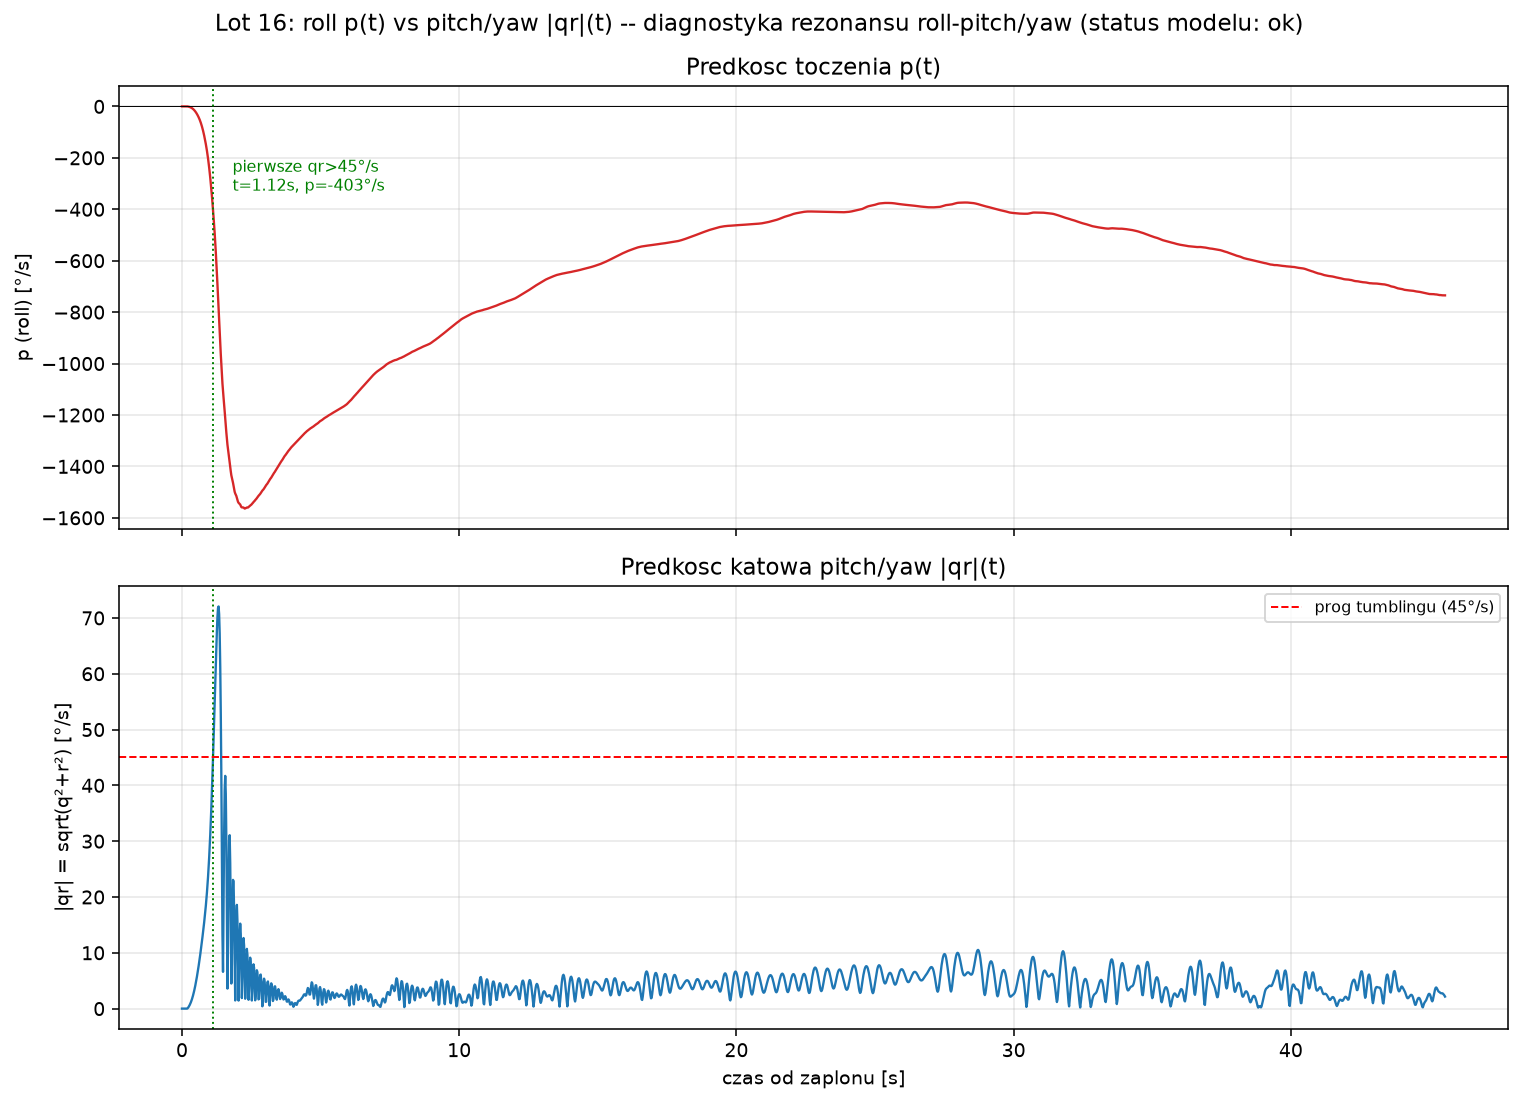
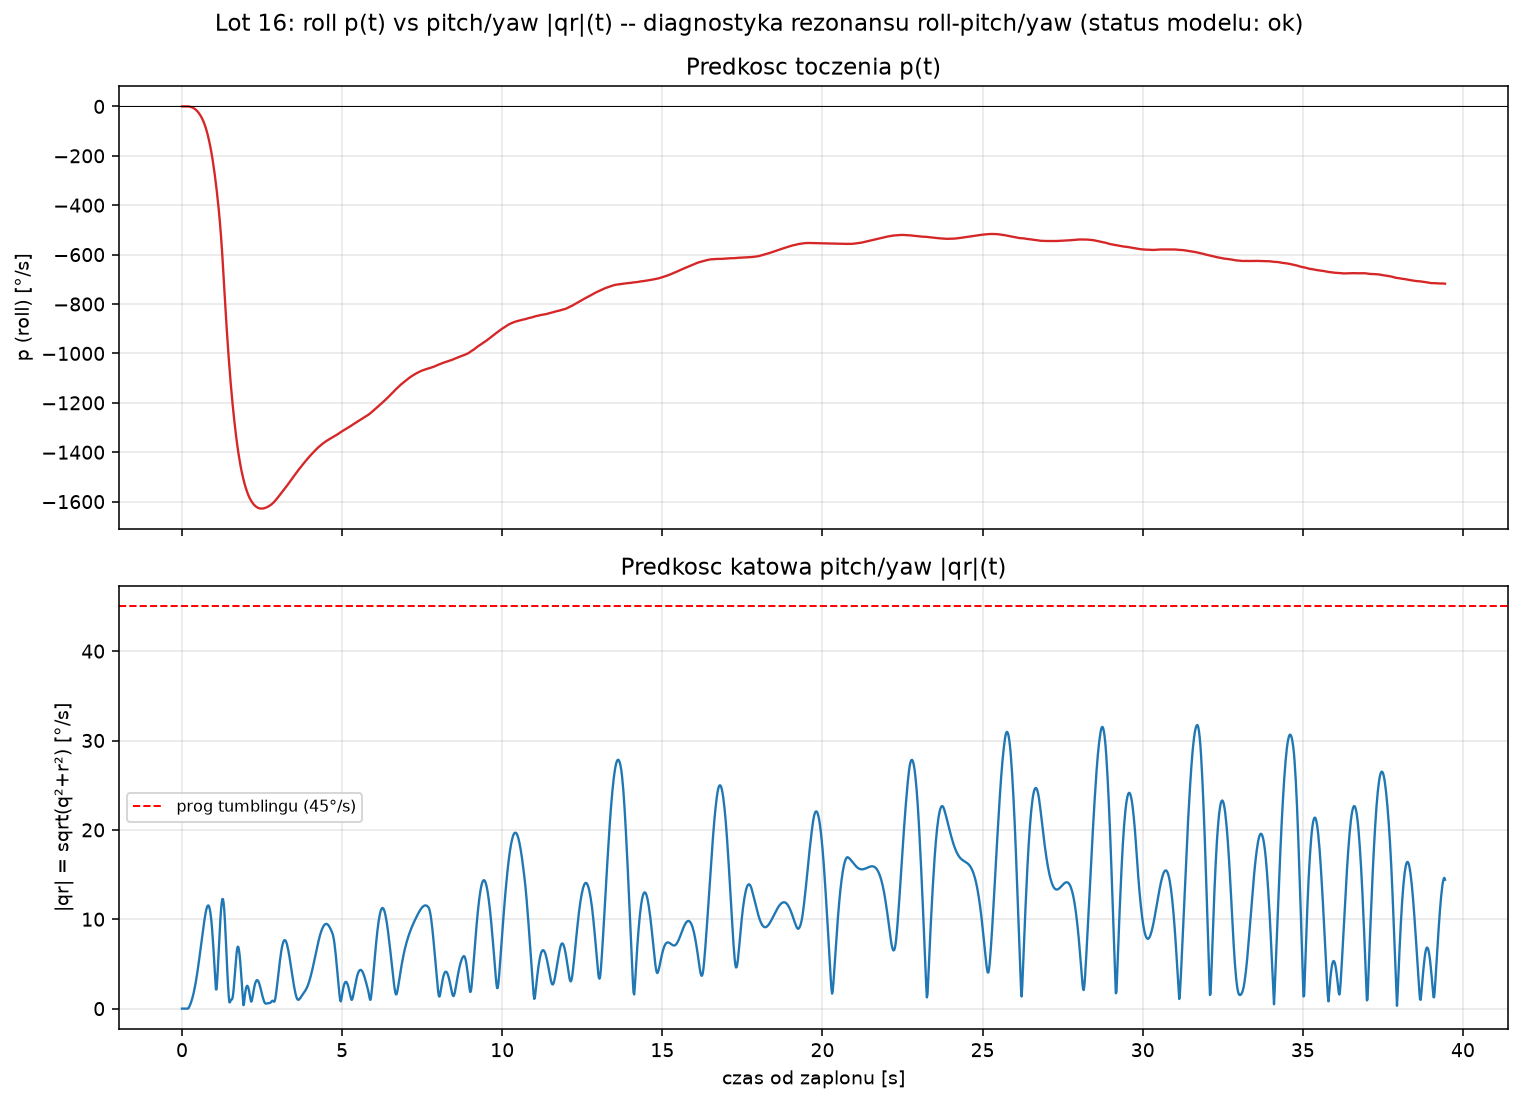
Fix yaw restoring-moment sign (Cn_beta = -Cm_alpha, not +)
The first MA_yaw implementation copied Cm's formula directly for Cn
using beta instead of alpha, same sign. That's wrong: in this body
axis convention (X fwd, Y right, Z down), dbeta/dt ~= -r while
dalpha/dt ~= +q (rotating from the pitch plane X-Z to the yaw plane
X-Y reverses handedness in a fixed frame). Combined with a same-sign
Cn, the beta/r loop becomes positive feedback (runaway) instead of a
restoring oscillator, while the alpha/q loop stays correctly
restoring -- explaining why pitch always worked but the new yaw term
caused tumbling shortly after burnout.

Standard axisymmetric-body relation is Cn_beta = -Cm_alpha for the
static/restoring term; damping stays Cn_r = Cm_q (no flip). Fixed in
both ConstantAero.compute() and TableAero.compute() by negating the
static Cn term before adding Cn_damping.

Verified: isolated v-only vs w-only state perturbations now show
opposite-sign dr_dt/dqr_dt (equal magnitude) that both push the
respective angle back toward zero -- previously dr_dt had the same
sign as dqr_dt, which is restoring for alpha but runaway for beta.
Full regression suite (gyroscopic, energy, 3dof-vs-6dof, launcher,
quaternion) still passes. Flight 16/19 roll-resonance smoke tests
(sandbox cached aero) now stay "ok" for the full flight instead of
tumbling ~13s after burnout.

diff --git a/FlightSim/models/aerodynamics.py b/FlightSim/models/aerodynamics.py
@@ -182,14 +182,21 @@ class ConstantAero:
         else:
             Cm = self.Cm_alpha * alpha
 
-        # Moment odchylający (yaw) — symetria z pitch: bryla osiowosymetryczna,
-        # wiec ta sama zaleznosc CN_alpha/arm dziala identycznie dla beta/r
-        # jak dla alpha/q (patrz docstring modulu, sekcja o MA_yaw).
+        # Moment odchylający (yaw) — bryla osiowosymetryczna, wiec |Cn_beta|
+        # = |Cm_alpha|, ALE ze znakiem przeciwnym (Cn_beta = -Cm_alpha) wzgledem
+        # statycznego/przywracajacego czlonu — konwencja osi cial (X w przod,
+        # Y w prawo, Z w dol) odwraca rcznosc przy przejsciu z plaszczyzny
+        # pitch (X-Z) do plaszczyzny yaw (X-Y): dbeta/dt ~ -r, podczas gdy
+        # dalpha/dt ~ +q. Bez tego odwrocenia znaku petla beta/r jest
+        # NIEstabilna (dodatnie sprzezenie zwrotne) zamiast oscylatora
+        # przywracajacego — patrz docstring modulu, sekcja o MA_yaw w
+        # force_model6.py. Tlumienie (Cnr=Cmq, ponizej) NIE zmienia znaku —
+        # to standardowa relacja dla bryl osiowosymetrycznych.
         CN_beta = self.CN_alpha * beta
         if self.use_xcp_moment:
-            Cn = CN_beta * arm / d_ref
+            Cn = -(CN_beta * arm / d_ref)
         else:
-            Cn = self.Cm_alpha * beta
+            Cn = -(self.Cm_alpha * beta)
 
         # Tłumienie kątowe (pitch/yaw damping) — Cmq=Cnr dla bryly
         # osiowosymetrycznej (brak osobnej tabeli Cnr, patrz docstring).
@@ -386,10 +393,16 @@ class TableAero:
         else:
             Cm = 0.0
 
-        # Moment odchylajacy (yaw) — symetria z pitch: bryla osiowosymetryczna,
-        # wiec ten sam Cm_table/xcp_table interpolowany przy beta zamiast
-        # alpha daje moment przywracajacy przy slizgu (patrz docstring
-        # modulu, sekcja o MA_yaw w force_model6.py).
+        # Moment odchylajacy (yaw) — bryla osiowosymetryczna: |Cn_beta| =
+        # |Cm_alpha|, ALE ze znakiem przeciwnym (Cn_beta = -Cm_alpha) dla
+        # czlonu statycznego/przywracajacego — konwencja osi cial (X w przod,
+        # Y w prawo, Z w dol) odwraca rcznosc przy przejsciu z plaszczyzny
+        # pitch (X-Z) do plaszczyzny yaw (X-Y): dbeta/dt ~ -r, podczas gdy
+        # dalpha/dt ~ +q. Bez tego odwrocenia znaku petla beta/r jest
+        # NIEstabilna (dodatnie sprzezenie zwrotne) zamiast oscylatora
+        # przywracajacego — patrz docstring modulu, sekcja o MA_yaw w
+        # force_model6.py. Tlumienie (Cnr=Cmq, ponizej) NIE zmienia znaku —
+        # to standardowa relacja dla bryl osiowosymetrycznych.
         if self.Cm_table is not None:
             Cn_datcom = self._interp(self.Cm_table, beta_clip, mach)
             if (self.xcp_table is not None
@@ -408,6 +421,7 @@ class TableAero:
             Cn = CN_beta * (xcg - xcp_interp_b) / d_ref
         else:
             Cn = 0.0
+        Cn = -Cn
 
         if speed > 1.0:
             # Użyj tabeli Cmq jeśli dostępna, inaczej stałej wartości.

diff --git a/FlightSim/forces/force_model6.py b/FlightSim/forces/force_model6.py
@@ -211,11 +211,16 @@ class ForceModel6DOF:
 
         # ---- Momenty aerodynamiczne --------------------------------------- #
         MA_pitch = aero.MA_yy + M_ctrl
-        # MA_yaw: symetria z MA_pitch (bryla osiowosymetryczna) -- restoring
-        # moment od slizgu (beta) + tlumienie (Cnr=Cmq), patrz
-        # models/aerodynamics.py. Wczesniej hardcoded 0.0, co dawalo
-        # nietlumiony/nieprzywracany ruch yaw pod wiatrem (spurious
-        # "tumbling" status post-apogeum mimo realnego niskiego AoA).
+        # MA_yaw: restoring moment od slizgu (beta) + tlumienie (Cnr=Cmq),
+        # patrz models/aerodynamics.py -- |Cn_beta|=|Cm_alpha| ale ze
+        # znakiem przeciwnym (konwencja osi cial X-przod/Y-prawo/Z-dol
+        # odwraca rcznosc miedzy plaszczyzna pitch i yaw: dbeta/dt~-r,
+        # dalpha/dt~+q), wiec aero.MA_zz juz ma poprawny znak przywracajacy.
+        # Wczesniej hardcoded 0.0, co dawalo nietlumiony/nieprzywracany
+        # ruch yaw pod wiatrem (spurious "tumbling" post-apogeum). Pierwsza
+        # implementacja (commit 01bbfa5) kopiowala znak Cm wprost do Cn,
+        # co dawalo NIEstabilna (dodatnio sprzezona) petle beta/r zamiast
+        # przywracajacej -- naprawione znakiem minus w aerodynamics.py.
         MA_yaw   = aero.MA_zz
 
         # ---- Moment toczący od zaklinowania płetw (z CLL_table DATCOM) ---- #
